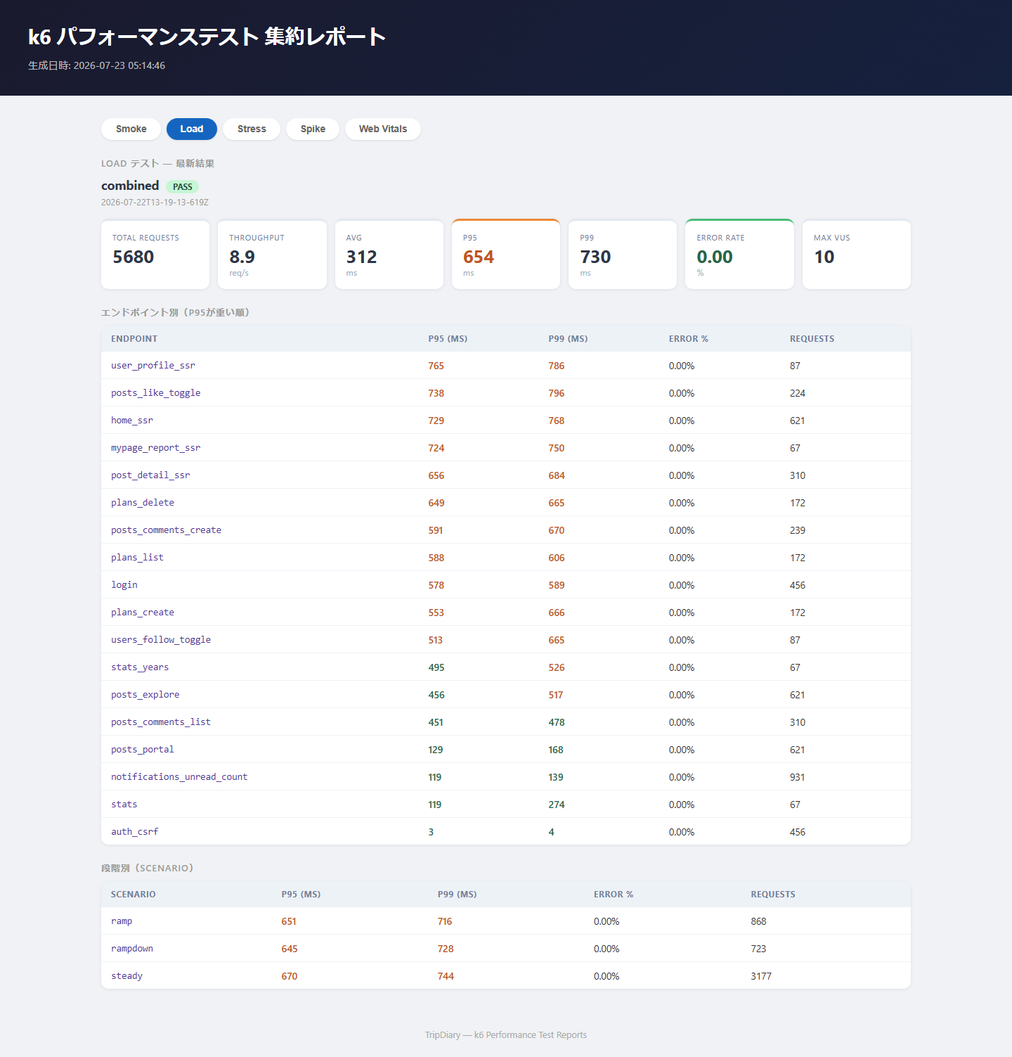
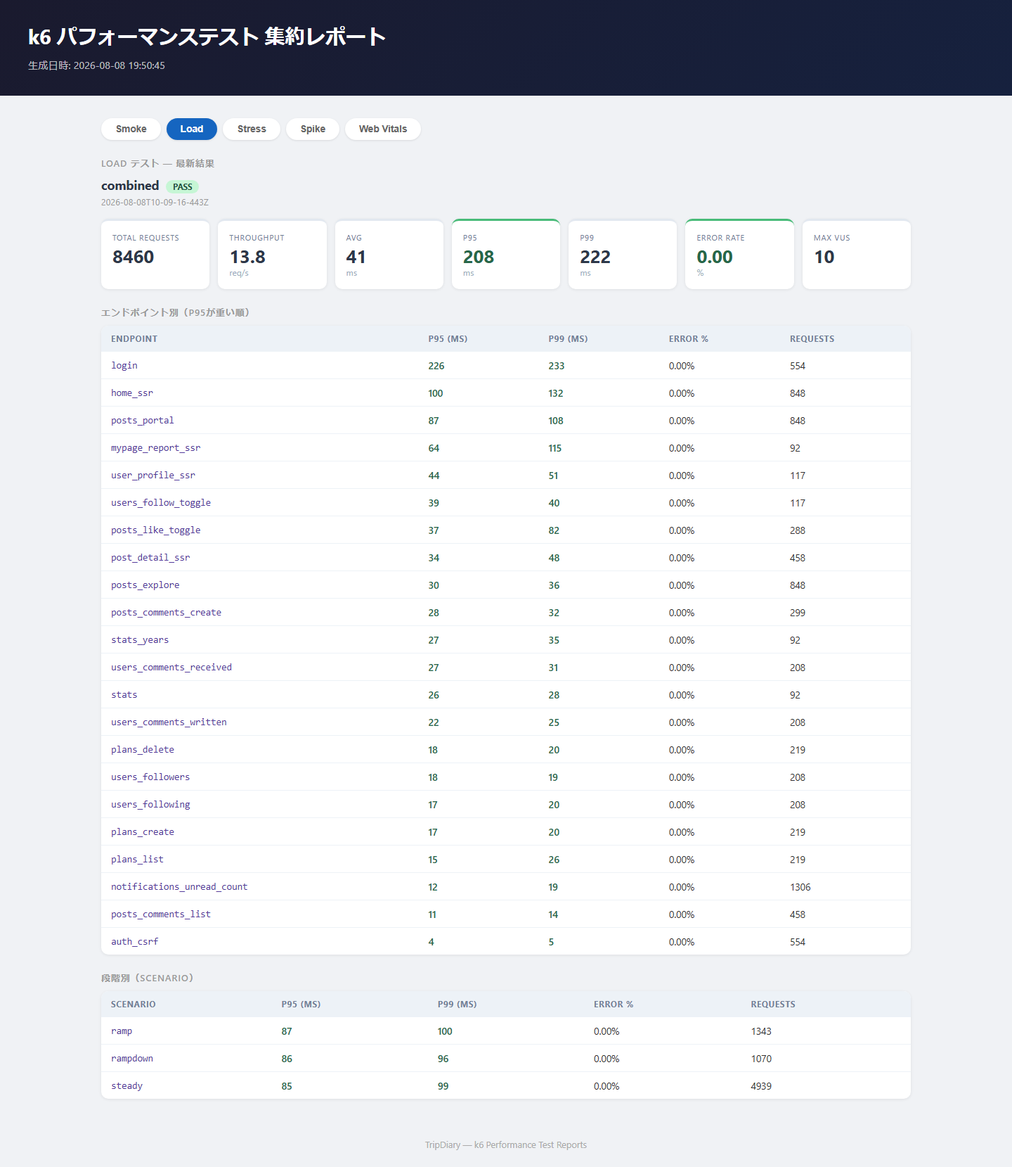
docs: 提出前レビュー指摘を反映、依存脆弱性を解消しパフォーマンスを再計測
- pnpm-workspace.yamlのoverridesでbrace-expansion/js-yaml/dompurify/
  postcss/undici/nanoid/immutableをパッチ〜マイナー版に固定し、
  pnpm auditの残存警告（high 11/moderate 6/low 1）を全て解消
  （immutableは3.x→4.xのメジャー更新だが、swagger-ui-react経由の
  API Docsページの実機動作を確認済み）
- README/要件定義書の脆弱性件数・デプロイ状況の記載を実測・現状に
  合わせて更新
- 画面設計書にGATE-40のCI成功確認を追記
- README冒頭にHTTP運用・公開アカウントのセキュリティ制約を明示
- @node-rs/bcrypt移行後の現行実装でパフォーマンステストを再計測し、
  README・テスト設計書・画像を更新（詳細はdocs/performance-test-
  results-2026-08-08.md）

diff --git a/docs/テスト設計書.md b/docs/テスト設計書.md
@@ -2,7 +2,8 @@
 
 **バージョン:** 3.1
 **作成日:** 2026-07-05
-**更新日:** 2026-08-04（GATE-40 PR-7全体の棚卸し4点に対応：①`docs/画面設計書.md`へPR-7d/7e/7fの更新履歴を追記、②`実装計画書/reviews/6-b-fix-dr-02-dark-theme.md`にPR-7e/7fの実施記録を追記、③ダークテーマ対応とは別軸の既存不具合として発見したフォーカスリングの非文字コントラスト不足（WCAG 1.4.11）を是正——`focus:ring-green-500`および半透明の`focus:ring-[#16a34a]/20`・`/30`（計11ファイル）を`focus:ring-green-700`へ統一、④`docs/pr-7d-ci-evidence`ブランチとのコミット重複リスクをメモリへ記録。10.3.9節参照）
+**更新日:** 2026-08-08（`@node-rs/bcrypt`移行後かつGATE-22/GATE-24反映後の現行実装で、perf専用DBをクリーン再シードし、k6 Smoke/Load/Stress/SpikeとPlaywright性能計測を再実行。12.13節参照）
+**旧更新日:** 2026-08-04（GATE-40 PR-7全体の棚卸し4点に対応：①`docs/画面設計書.md`へPR-7d/7e/7fの更新履歴を追記、②`実装計画書/reviews/6-b-fix-dr-02-dark-theme.md`にPR-7e/7fの実施記録を追記、③ダークテーマ対応とは別軸の既存不具合として発見したフォーカスリングの非文字コントラスト不足（WCAG 1.4.11）を是正——`focus:ring-green-500`および半透明の`focus:ring-[#16a34a]/20`・`/30`（計11ファイル）を`focus:ring-green-700`へ統一、④`docs/pr-7d-ci-evidence`ブランチとのコミット重複リスクをメモリへ記録。10.3.9節参照）
 **旧更新日:** 2026-08-03（GATE-40 PR-7f: PR-7e後の全src静的監査（10.3.6節）で見つかった残件——通知ページ／`NotificationList`、プロフィールページ本体・`CommentLoadMoreList`・`UserLoadMoreList`・`FollowButton`・共通`BackButton`、投稿詳細ページ本体・`LikeButton`・`WishlistButton`・`VisitedButton`・`CommentSection`、`MapView`/`LocationPicker`の地図拡大ボタン、`PlanMapViewWrapper`/`PlanMapView`、`error.tsx`系6画面、`ReportSummary`の画像上バッジ——のダークテーマ対応をコードレベルで実施。実装中に既存の隠れたコントラスト不足3件（`bg-green-600`・`bg-green-500`・`bg-[#3B88C3]`、いずれもライト/ダーク共通の既存不足）を追加で発見・是正し、Saki さんの指示によるsrc全体の再監査で`FollowFeed.tsx`・投稿詳細のエリア表示テキストも追加是正した。本節時点ではE2E・スクリーンショット証跡・Linux/CI証跡が未取得のため、GATE-40（DR-02）全体は引き続き未完了とする。10.3.7節参照）
 **旧々更新日:** 2026-08-03（GATE-40 PR-7e: 探索・検索・タグ〔`SearchClient`〕＋その他〔`YearFilterBar`・`MapView`・`LocationPicker`・`tags/[tag]`〕のダークテーマ対応を検証。新規`e2e/dark-theme-explore-search.spec.ts`〔20ケース、5回以上連続実行で成功を確認〕を追加。実装中に既存の隠れたコントラスト不足2件（検索の並び替え選択状態`bg-[#16a34a]`系、カテゴリチップ選択状態`bg-blue-400`）を発見・是正。PR-7e（DR-02グループF・G）は完了したが、Terraの全src静的監査で通知・プロフィール・投稿詳細等にGATE-40当初の棚卸し漏れが見つかったため、GATE-40（DR-02）全体はLinux/CI証跡取得と残件対応の両方が完了するまで未完了とする。10.3.6節参照）
 **旧々々更新日:** 2026-08-01（GATE-40 PR-7d: 旅行プラン〔`SpotPicker`・`ReportSummary`・`PlanForm`・`PlanActions`・`PlanLoadMoreList`・`CompletedPlansAccordion`等〕のダークテーマ対応を検証。新規`e2e/dark-theme-plans.spec.ts`〔15ケース、2回連続実行で成功を確認〕を追加。Terraレビューでの指摘に対応し、モバイル・タブレット幅（320/375/768px）の追加検証、例外レスポンス時のエラートースト表示検証（ダークモードでの可読性含む）を追加。この過程で全アプリ共通の`toast.tsx`がダークモード未対応だった欠陥を発見・是正。10.3.5節参照）
@@ -871,3 +872,20 @@ Spikeの設計目的「recovery区間のp99が回復しているか」を、`htt
 現時点のk6シナリオ（`scenarios/`）はこれら2エンドポイントを計測対象に含めていない。行きたい/訪問済みリストの登録件数はコメント・フォロワーほど無制限に増加しない想定のため、本PRでは新規シナリオを追加せず、上限なし全件取得の解消をコードレベルの修正として記録するに留める。件数が多いシードユーザーでの負荷試験対象化が必要になった場合は、GATE-22種類B対応（PR-6c、コメント/フォロワー/フォロー中/旅行プランの上限＋cursor新設）で見直すシナリオ構成とあわせて検討する。
 
 Playwrightは4列CSVのログイン修正後に8件すべて通過した。トップページ（TTFB 14ms / FCP 208ms / LCP 576ms / CLS 0）、マイページ集計（11ms / 148ms / 584ms / 0）、投稿詳細（12ms / 112ms / 480ms）であり、操作応答時間もいいね65ms、コメント63ms、検索98ms、追加読込173msですべて閾値内だった。トップページのFCPがまれに未定義となったため、`getEntriesByName()`だけでなく`PerformanceObserver`の`paint`エントリを`buffered: true`で取得するよう計測ヘルパーを修正して再実行した。
+
+### 12.13 現行実装のパフォーマンス再測定（2026-08-08）
+
+`@node-rs/bcrypt`移行後、GATE-22のcursorページング専用シナリオとGATE-24の`checks`閾値を含む現行実装を対象に、`mysql-perf`（`127.0.0.1:3308/tripdiary_perf`）をクリーン再シードしてSmoke→Load→Stress→Spike→Playwright性能計測の順に再実行した。seedはユーザー60名、投稿3,544件、いいね/コメント各10,000件、フォロー300件、通知3,000件。ページング対象ユーザーは投稿コメント229件・受信コメント572件・フォロワー56件・フォロー中56件で、既定limit=50を決定的に超えている。長時間3試験では実行環境由来のTripDiary Nodeプロセス検出を許容するため`PERF_ALLOW_EXTRA_NODE_PROCESSES=1`、全試験でブラウザ自動表示を抑止するため`K6_NO_OPEN=1`を指定した。シナリオ・閾値・DB接続先は変更していない。
+
+| 種別 | 判定 | 件数 | エラー率 | 対象区間 | p95 | p99 |
+|---|---|---:|---:|---|---:|---:|
+| Smoke | PASS | 29 | 0% | 全体 | 235.6ms | 266.3ms |
+| Load（10VU） | PASS | 8,460 | 0% | `steady`（定常10VU） | 85.0ms | 99.3ms |
+| Stress（50VU） | 限界点記録（判定なし） | 30,713 | 0% | `vu50`（最大50VU） | 110.9ms | 162.4ms |
+| Spike（60VU） | PASS | 18,198 | 0% | `cooldown1`/`cooldown2`（5VU定常） | 84.0ms / 101.3ms | 91.9ms / 115.9ms（閾値2,000ms / 5,000ms） |
+
+Smokeは`checks: 100%（47/47）`で、コメント送信/受信・フォロワー・フォロー中の4経路について`hasMore`・`nextCursor`・2ページ目非空をすべて確認した。Stressもchecks 42,560/42,560、全k6試験のサーバーログにHTTP 5xx・Prisma `P2034`・level 50ログはなかった。Load/Spikeは終了コード0かつ`passed: true`で、`checks`・エラー率・レイテンシ・cooldownの全閾値を通過した。
+
+Playwrightは8件すべて成功した。ページ表示はトップ（TTFB 34ms / FCP 316ms / LCP 900ms / CLS 0）、マイページ集計（16ms / 156ms / 676ms / 0）、投稿詳細（20ms / 248ms / 248ms / 0）。操作応答はいいね101ms（閾値300ms）、コメント98ms（3,000ms）、検索291ms（1,000ms）、追加読込200ms（2,000ms）で、すべて閾値内だった。
+
+本結果はローカル隔離環境の比較・回帰証跡であり、本番EC2/RDSの容量保証ではない。測定対象SHA、dirty working treeの範囲、ツール/OS/DB、生成JSON名を含む再現情報は`docs/performance-test-results-2026-08-08.md`へ記録した。README掲載用の5画像も同じ結果から再生成した。

diff --git a/docs/performance-test-results-2026-08-08.md b/docs/performance-test-results-2026-08-08.md
@@ -1,0 +1,95 @@
+# パフォーマンステスト再測定結果（2026-08-08）
+
+## 目的と位置づけ
+
+`@node-rs/bcrypt`移行後、GATE-22のcursorページングシナリオとGATE-24の`checks`閾値を含む現行実装について、ローカルの隔離されたperf環境でk6とPlaywrightを再測定した。本書は測定条件と生成物を追跡可能にするためのsummaryであり、本番EC2/RDSの容量保証ではない。
+
+## 測定対象
+
+| 項目 | 値 |
+|---|---|
+| 日時 | 2026-08-08 18:57〜19:47 JST |
+| ブランチ | `docs/pre-submission-audit-fixes` |
+| ベースHEAD | `003d52d6f7e8d5bb20dc4bc01fbc01962dece9ea` |
+| working tree | dirty。測定開始前から`README.md`・`docs/画面設計書.md`・`docs/要件定義書.md`・`pnpm-lock.yaml`・`pnpm-workspace.yaml`に未コミット変更あり。アプリケーションソースとk6シナリオには未コミット変更なし |
+| 注意 | 依存overrideを含む未コミットの`pnpm-workspace.yaml`/lockfile状態でbuildしたため、SHA単独では完全再現できない。最終コミット確定後にSHAを本書へ追記するか、厳密な固定commit証跡が必要なら同じ手順で再実行する |
+
+## 実行環境
+
+| 項目 | 値 |
+|---|---|
+| OS | Windows NT 10.0.26200.0 x64 |
+| CPU | AMD64 Family 25 Model 68 Stepping 1、16 logical processors |
+| Node.js / pnpm | 24.11.0 / 11.9.0 |
+| k6 | 2.0.0（commit `8c3be52cc1`、Go 1.26.3、windows/amd64） |
+| Next.js / Prisma | 16.2.11 / 6.19.3 |
+| password hash | `@node-rs/bcrypt` 1.10.7 |
+| DB | Docker `mysql:8.0`、`mysql-perf`、ホスト`127.0.0.1:3308`、DB`tripdiary_perf`、tmpfs |
+| アプリ | `pnpm perf:build`後のproduction server、`http://127.0.0.1:3000` |
+| 環境スイッチ | seedのみ`CONFIRM_PERF_TRUNCATE=true`。Load/Stress/Spikeは`PERF_ALLOW_EXTRA_NODE_PROCESSES=1`。k6全試験は`K6_NO_OPEN=1` |
+
+`perf:migrate`時にPrismaが`127.0.0.1:3308/tripdiary_perf`を表示し、DB自身への問い合わせでも`DATABASE()=tripdiary_perf`、mysql-perfコンテナ内port 3306であることを確認してから全TRUNCATEを実行した。本番・開発・test DBは使用していない。
+
+## seed
+
+| データ | 件数 |
+|---|---:|
+| ユーザー | 60 |
+| 投稿 | 3,544 |
+| いいね | 10,000 |
+| コメント | 10,000 |
+| フォロー | 300 |
+| 通知 | 3,000 |
+
+整合性確認は`SUM(likeCount)=COUNT(likes)=10,000`、`SUM(commentCount)=COUNT(comments)=10,000`。ページング固定ユーザーは投稿コメント229、受信コメント572、フォロワー56、フォロー中56で、4条件とも最低56件を満たした。
+
+## k6結果
+
+| 種別 | 判定 | リクエスト | エラー率 | 採用区間 | p95 | p99 | 結果JSON |
+|---|---|---:|---:|---|---:|---:|---|
+| Smoke | PASS | 29 | 0% | 全体 | 235.6ms | 266.3ms | `combined-smoke-2026-08-08T09-57-14-619Z.json` |
+| Load | PASS | 8,460 | 0% | `steady` | 85.0ms | 99.3ms | `combined-load-2026-08-08T10-09-16-443Z.json` |
+| Stress | 判定なし | 30,713 | 0% | `vu50` | 110.9ms | 162.4ms | `combined-stress-2026-08-08T10-29-34-672Z.json` |
+| Spike | PASS | 18,198 | 0% | `cooldown1` / `cooldown2` | 84.0ms / 101.3ms | 91.9ms / 115.9ms | `combined-spike-2026-08-08T10-45-25-679Z.json` |
+
+- Smoke: checks 47/47。ページング4経路の`hasMore`・`nextCursor`・2ページ目非空を含めすべて成功。
+- Load: `passed: true`。全体p95/p99は208.0/221.7msだが、閾値と採用値はログインを分離した定常10VUの`steady`区間。
+- Stress: checks 42,560/42,560。合否判定を置かない限界点記録。
+- Spike: `passed: true`。cooldown1/2 p99は閾値2,000/5,000msを通過。
+- サーバーログ: HTTP 5xx、Prisma `P2034`、level 50ログはいずれも0件。
+
+`performance/k6/results/`はgitignore対象のため、上記JSON/HTML自体は追跡しない。確定値と生成物名は本書、可視化結果は`docs/images/performance-{smoke,load,stress,spike}.png`へ転記・追跡する。
+
+## Playwright性能計測
+
+8件すべて成功（実行時間22.3秒）。
+
+| 対象 | TTFB | FCP | LCP | CLS |
+|---|---:|---:|---:|---:|
+| トップ | 34ms | 316ms | 900ms | 0 |
+| マイページ集計 | 16ms | 156ms | 676ms | 0 |
+| 投稿詳細 | 20ms | 248ms | 248ms | 0 |
+
+| 操作 | 実測 | 閾値 | 判定 |
+|---|---:|---:|---|
+| いいね | 101ms | 300ms | PASS |
+| コメント投稿 | 98ms | 3,000ms | PASS |
+| 検索 | 291ms | 1,000ms | PASS |
+| 追加読込 | 200ms | 2,000ms | PASS |
+
+## 実行コマンド
+
+```powershell
+pnpm perf:up
+pnpm perf:migrate
+$env:CONFIRM_PERF_TRUNCATE='true'; pnpm perf:seed
+pnpm perf:build
+pnpm perf:start
+$env:K6_NO_OPEN='1'; & 'C:\Program Files\Git\bin\bash.exe' performance/k6/run.sh smoke
+$env:PERF_ALLOW_EXTRA_NODE_PROCESSES='1'; $env:K6_NO_OPEN='1'; & 'C:\Program Files\Git\bin\bash.exe' performance/k6/run.sh load
+$env:PERF_ALLOW_EXTRA_NODE_PROCESSES='1'; $env:K6_NO_OPEN='1'; & 'C:\Program Files\Git\bin\bash.exe' performance/k6/run.sh stress
+$env:PERF_ALLOW_EXTRA_NODE_PROCESSES='1'; $env:K6_NO_OPEN='1'; & 'C:\Program Files\Git\bin\bash.exe' performance/k6/run.sh spike
+pnpm perf:vitals
+$env:K6_NO_OPEN='1'; & 'C:\Program Files\Git\bin\bash.exe' performance/k6/run.sh index
+pnpm perf:capture
+```

diff --git a/README.md b/README.md
@@ -18,11 +18,13 @@
 | 地図 | Leaflet + OpenStreetMap |
 | ホスティング | AWS EC2 + RDS + S3（Terraform構築済み、2026-08-06デプロイ・実機能検証完了。2026-08-07 一般公開済み: http://54.248.13.248 ）。詳細は [インフラ構成書](docs/インフラ構成書.md) |
 
+> ⚠ **既知のセキュリティ制約**: 本番環境はコスト・作業量を理由にHTTP運用（HTTPS非採用）としており、確認用アカウントの認証情報も公開済み（[詳細](#本番環境へのデプロイ)）。認証情報平文送信・第三者によるデータ改変のリスクを許容した上での公開判断であり、確認用アカウントの使い捨て運用を前提とする。
+
 ---
 
 ## セキュリティ確認メモ
 
-`pnpm audit` の残存警告（high 5 / low 1）は `swagger-ui-react` の内部依存由来。TripDiary本体機能への直接影響は限定的と判断し、critical 0 の状態で Phase 5 は完了とする。`swagger-ui-react` 側の修正版が公開され次第、依存更新で追従する。
+`pnpm audit`（2026-08-08時点）: 全依存 critical 0 / high 0 / moderate 0 / low 0（`pnpm-workspace.yaml`の`overrides`で`brace-expansion`・`js-yaml`・`dompurify`・`postcss`・`undici`・`nanoid`・`immutable`をパッチ／マイナー版に固定して解消。`immutable`は`swagger-ui-react`が直接依存に`^3.x.x`を指定しているが、実機でAPI Docsページの表示・操作を検証し4.x系でも問題ないことを確認済み）。
 
 ---
 
@@ -52,14 +54,14 @@
 
 perf専用MySQLへ再シードした環境で、k6による負荷試験とPlaywrightによるWeb Vitals計測を実施しています。詳細な実行手順・シナリオ・閾値は[performance/k6/README.md](performance/k6/README.md)を参照してください。
 
-> ⚠ 以下の実測値・スクリーンショットは、ログイン処理のパスワード照合に`bcryptjs`を使用していた時点（Phase 6 6-A2でネイティブ実装の`@node-rs/bcrypt`へ置き換える前）のものです。ログイン処理のCPU負荷特性が変わりうるため、本番デプロイ（Phase 6-B）完了後に再計測し、この節を更新する予定です。
+> ✅ 2026-08-08、`@node-rs/bcrypt`移行・GATE-22ページングシナリオ・GATE-24 checks閾値を含む現行実装を、perf専用MySQLのクリーン再シード後に再測定しました。測定対象・環境・生成物は[再測定summary](docs/performance-test-results-2026-08-08.md)を参照してください。以下はローカル隔離環境の値であり、本番EC2/RDSの容量保証ではありません。
 
 | 種別 | ピーク業務VU | 結果 | 主な実測値 |
 |---|---:|---|---|
-| Smoke | 1 | PASS | p95 120ms / p99 463ms / エラー率 0% |
-| Load | 10 | PASS | steady p95 670ms / p99 744ms / エラー率 0% |
-| Stress | 50 | N/A | vu50 p95 1011ms / p99 1380ms、全体エラー率 0.005% |
-| Spike | 60 | PASS | cooldown p99 655ms / 603ms / エラー率 0.034% |
+| Smoke | 1 | PASS | 29件、p95 235.6ms / p99 266.3ms / エラー率 0% / checks 47/47 |
+| Load | 10 | PASS | 8,460件、steady p95 85.0ms / p99 99.3ms / エラー率 0% |
+| Stress | 50 | N/A | 30,713件、vu50 p95 110.9ms / p99 162.4ms / エラー率 0% |
+| Spike | 60 | PASS | 18,198件、cooldown p99 91.9ms / 115.9ms / エラー率 0% |
 
 <details>
 <summary>集約レポートのスクリーンショット</summary>
@@ -135,7 +137,6 @@ TripDiary/
 
 - Node.js 24 / pnpm（本番EC2・CIともにNode.js 24で統一。`@node-rs/bcrypt`のネイティブアドオンがビルド時のNodeバージョンに依存するため）
 - Docker（開発用MySQLコンテナの起動に使用）
-- Leaflet + OpenStreetMap（APIキー不要）
 - ※ 画像アップロード機能（投稿画像・アバター）を使うには `AWS_REGION` / `AWS_S3_BUCKET_NAME` の設定と実際のS3バケットが必要（バケット自体の構築は実装計画書 Phase 6-B）。それ以外の画面・機能はS3設定なしでも動作する
 
 ### 手順
@@ -225,7 +226,6 @@ pnpm playwright test --project=e2e  # E2Eテスト（認証フロー・投稿の
 | `AWS_S3_BUCKET_NAME` | S3 バケット名。画像アップロード機能に必須 |
 | `AWS_ACCESS_KEY_ID` | IAM ユーザーのアクセスキー（任意。ローカル開発で一時的な認証情報を使う場合のみ設定。本番は EC2 の IAM ロールを使うため設定不要） |
 | `AWS_SECRET_ACCESS_KEY` | IAM ユーザーのシークレットキー（任意。用途は上記と同じ） |
-| ~~`NEXT_PUBLIC_MAPBOX_TOKEN`~~ | 不要（Leaflet + OpenStreetMap に変更） |
 
 ---
 

diff --git a/docs/画面設計書.md b/docs/画面設計書.md
@@ -5,6 +5,8 @@
 **更新日:** 2026-08-04
 **作成者:** Nakata Saki
 
+> ✅ **2026-08-06 更新（GATE-40 CI成功確認）：** PR-7f時点で残っていた「修正後のCI再実行が成功するまではGATE-40完了を示さない」という留保は解消済み。DOC-0・PR-A1〜PR-D（PR #46〜#52・#54〜#56）の全マージ後、事後対応PR-57（`fix/e2e-logout-locator-flake`）を経て、mainへのpush後CI（run 31050483774）で`lint`・`typecheck`・`build`・`test`・`e2e`の5ジョブ全てpassを確認した。詳細はテスト設計書11節末尾（②完了の判定、2026-08-06確定）参照。
+>
 > 🔶 **2026-08-04 更新（GATE-40、PR-7f）：** GATE-40の全src静的監査で判明した残件をダークテーマ対応した。S-12（通知画面）・`NotificationList`（見出し・通知行のborder/hover/未読背景・本文・日時・コメント抜粋・空/読込状態）、S-07（ユーザープロフィール）本体（名前・自己紹介・件数・ランクバッジ・タブ）と投稿一覧/コメント一覧/フォロー一覧の共通部品（`CommentLoadMoreList`・`UserLoadMoreList`・`FollowButton`・共通`BackButton`）、S-04（投稿詳細）本体（タイトル・投稿者・本文・費用内訳・関連スポット・地図枠）といいね/行きたい/訪問済みボタン・コメントセクション、S-13（旅行プラン詳細）の地図（`PlanMapView`）、エラー・404画面（`error.tsx`系6画面）を対応した。実装中に既存の隠れたコントラスト不足（白文字に対して`bg-green-600`・`bg-green-500`・`bg-[#3B88C3]`が不足）も発見・是正した。あわせてダークテーマとは別に、`ExploreFeed`の再フェッチ失敗・通知バッジ取得失敗等でエラー表示がばらついていたフロントエンド例外UXを、共通の`fetchJson`ヘルパーとグローバルトースト基盤で統一した。PR #45のE2EはLinux baseline不足と既存baseline差分により失敗しており、修正後のCI再実行が成功するまではGATE-40完了を示さない。詳細はテスト設計書10.3.7〜10.3.8節参照。
 >
 > ✅ **2026-08-03 更新（GATE-40、PR-7e）：** DR-02グループF（探索・検索・タグ）＋グループG（その他）をダークテーマ対応した。S-11（総合検索）を`bg-surface`等のトークン化し、旅スポット/エリア/ユーザーの3タブ（カテゴリチップ・並び替え・人気順ランキング・エリアチップ・ユーザーカード）を対応した。S-08（エリア絞り込み）、S-10（マイページ）の年セレクター（`YearFilterBar`）、地図コンポーネント（`MapView`・`LocationPicker`）の通常表示・拡大モーダル・閉じるボタンも対応した。実装中に既存の隠れたコントラスト不足（白文字に対して`bg-[#16a34a]`系・`bg-blue-400`が不足）も発見・是正した。詳細はテスト設計書10.3.6節参照。

diff --git a/performance/k6/README.md b/performance/k6/README.md
@@ -57,7 +57,7 @@ pnpm perf:down
 
 第一級エンドポイント（`home_ssr`・`post_detail_ssr`・`mypage_report_ssr`・`user_profile_ssr`・`posts_portal`・`posts_explore`・`posts_like_toggle`・`posts_comments_create`・`users_follow_toggle`）のp95/p99閾値は`helpers/thresholds.ts`の`CONFIRMED_ENDPOINT_P95_THRESHOLDS_MS`/`CONFIRMED_ENDPOINT_P99_THRESHOLDS_MS`に確定済み（クリーン再シード後のLoad定常10VU実測にマージン）。それ以外の補助エンドポイントは引き続き計測のみ（非ゲート）。ログインは独立シナリオ（低頻度）で、他エンドポイントのp95/p99を汚染しないよう`endpoint:login`タグで分離して計測する。
 
-**実測結果（2026-07-22、クリーン再シード後の最終確認）**: `toggleLike`/`createComment`/`toggleFollow`のPrisma `P2034`デッドロック未捕捉バグ、および`post.repository.ts`のLIMIT漏れを検出・修正した。Max VUs表示は`peakWorkloadVUs()`（`options.scenarios`から自動算出、`login`用VUは除く）に置き換え済み。perf DBをクリーンな状態に再シードした上でSmoke/Load/Stress/Spikeを最終実行し、Smoke PASS（19件、p95 120ms / p99 463ms）、Load（10VU）PASS（5,680件、エラー率0%、steady p95 670ms / p99 744ms）、Spike（60VU）PASS（11,616件、エラー率0.034%、cooldown1/2 p99 655ms / 603ms）、Stress（50VU）は18,755件・**全体エラー率**0.005%・vu50区間p95 1011ms / p99 1380msで限界点を記録した。Web Vitals・操作応答時間も4列CSV対応後に8件すべて通過している。詳細は`docs/テスト設計書.md`12.11節を参照。
+**実測結果（2026-08-08、現行実装のクリーン再シード後再測定）**: `@node-rs/bcrypt`移行後、GATE-22のcursorページング専用シナリオとGATE-24の`checks`閾値を含む構成でSmoke→Load→Stress→Spikeを通しで実行した。Smoke PASS（29件、checks 47/47、p95 235.6ms / p99 266.3ms）、Load（10VU）PASS（8,460件、エラー率0%、steady p95 85.0ms / p99 99.3ms）、Stress（50VU）は30,713件・エラー率0%・vu50 p95 110.9ms / p99 162.4msで限界点を記録、Spike（60VU）PASS（18,198件、エラー率0%、cooldown1/2 p99 91.9ms / 115.9ms）だった。PlaywrightのWeb Vitals・操作応答時間も8件すべて通過した。測定対象・実行環境・seed件数・ファイル名を含む追跡可能な証跡は`docs/performance-test-results-2026-08-08.md`、詳細なテスト設計は`docs/テスト設計書.md`12.13節を参照。ローカル隔離環境の実測であり、本番EC2/RDSの容量保証には使用しない。
 
 ## シナリオ構成（Load/Stress/Spike共通の加重分散）
 

diff --git a/docs/要件定義書.md b/docs/要件定義書.md
@@ -2,7 +2,7 @@
 
 **バージョン:** 1.1
 **作成日:** 2026-06-27
-**更新日:** 2026-07-25
+**更新日:** 2026-08-08
 **作成者:** Nakata Saki
 
 ---
@@ -88,12 +88,12 @@ Next.js・Prisma・MySQL・AWS（EC2・RDS・S3）を組み合わせ、フロン
 | バックエンド | Next.js Route Handlers |
 | ORM | Prisma 6.19.3 |
 | 認証 | Auth.js（next-auth 5.0.0-beta.32） |
-| データベース | MySQL（開発: Docker / 本番: AWS RDS 予定） |
+| データベース | MySQL（開発: Docker / 本番: AWS RDS） |
 | 画像ストレージ | AWS S3（実装計画書 Phase 6-A 対応済み。オブジェクトキーは`uploads/{ownerUserId}/{uuid}.{ext}`） |
 | 地図 | Leaflet + OpenStreetMap |
-| ホスティング | 未デプロイ（想定構成: AWS EC2 + RDS + S3） |
+| ホスティング | AWS EC2 + RDS + S3（Terraform構築済み、2026-08-06デプロイ・実機能検証完了。2026-08-07 一般公開済み: http://54.248.13.248 ） |
 
-※ インフラの詳細は [インフラ構成書.md](インフラ構成書.md) を参照。現状はローカル開発環境のみで、本番デプロイは実装計画書 Phase 6 で実施予定。
+※ インフラの詳細は [インフラ構成書.md](インフラ構成書.md) を参照。本番デプロイは実装計画書 Phase 6-B で実施済み。
 
 ---
 
